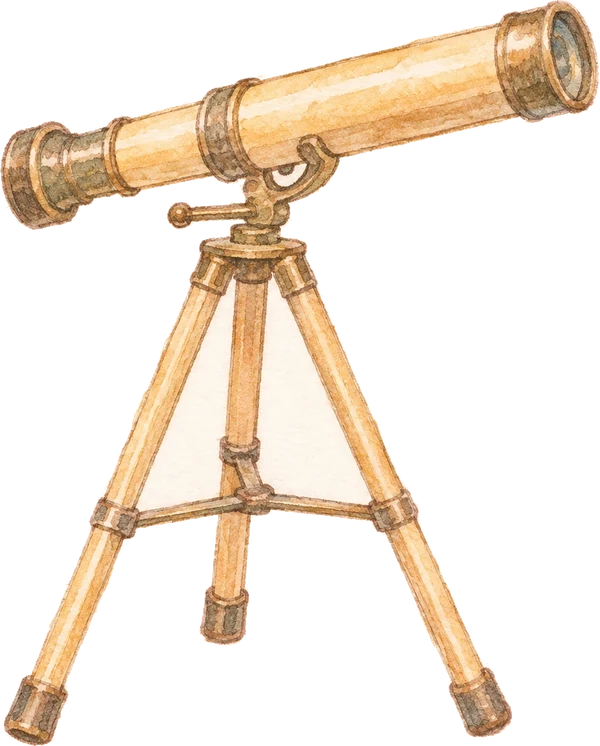
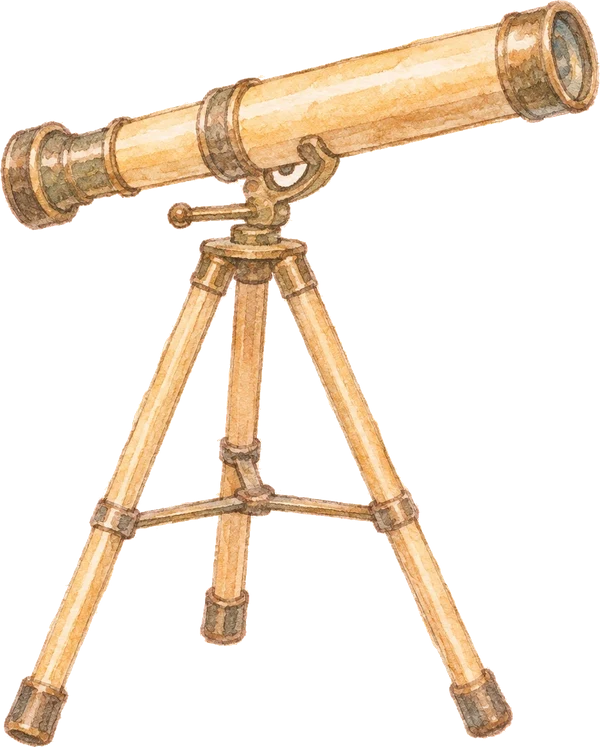
바닥 WebGL(타일 반복 제거·사파리 속도), 텐트 밑 그림자, 텐트·차·망원경 수정

diff --git a/index.html b/index.html
@@ -11,7 +11,7 @@
   .stage { position: sticky; top: 0; height: 100vh; overflow: hidden; }
   .bg { display: none; } /* 하늘·언덕은 캔버스에서 지평선 위치에 맞춰 그림 */
   .bg svg { width: 100%; height: 100%; display: block; }
-  #ground { position: absolute; inset: 0; width: 100%; height: 100%; }
+  #ground, #gl { position: absolute; inset: 0; width: 100%; height: 100%; pointer-events: none; }
   .obj { position: absolute; left: 0; top: 0; transform-origin: 0 0; will-change: transform; }
   .obj svg { width: 100%; height: 100%; display: block; overflow: visible; }
   .obj > img { width: 100%; height: 100%; display: block; }
@@ -61,6 +61,7 @@
     </svg></div>
 
     <canvas id="ground"></canvas>
+    <canvas id="gl"></canvas>
     <div class="hint" id="hint">SCROLL ↓</div>
   </div>
 </div>
@@ -139,17 +140,18 @@ shrub(6, 1900, -4300, 640);
 // 천막 (그림 비율 864x1001), 원뿔 텐트 (672x1005)
 // 텐트 여러 종류 [그림, 가로, 세로] — 그림 비율대로
 const TENT = { tent: [570, 390], tent2: [570, 370], dome1: [600, 332], dome2: [600, 348], dome3: [600, 341], teepee: [375, 409] }; // 1.5배
-const tent = (n, x, z, f) => place(img(`img/${n}.webp`, f), x, z, ...TENT[n]);
+const TENT_SH = []; // 텐트 밑 그림자 (땅 x, 땅 앞뒤 f, 너비)
+const tent = (n, x, z, f) => { place(img(`img/${n}.webp`, f), x, z, ...TENT[n]); TENT_SH.push([x * KX, -z * KZ, TENT[n][0]]); };
 // 앞(가까움) → 뒤(무대 근처)로 나눠 배치, 무대 정면은 비워둠
 // 왼쪽 5개
-tent('teepee', -1700, -6200, 0); tent('tent', -2400, -6900, 0); tent('dome3', -1000, -8300, 0); tent('tent', -1900, -9400, 1); tent('tent2', -900, -10100, 1);
-// 오른쪽: 아이보리 3개(열린 tent, 닫힌 tent2) + 하늘색 2개(닫힌 dome1, 열린 dome2)
-tent('dome1', 1050, -6500, 1); tent('tent', 1950, -6300, 1); tent('tent2', 1500, -8000, 0); tent('dome2', 950, -9000, 1); tent('tent2', 1800, -9700, 1);
+tent('teepee', -1700, -6200, 0); tent('tent', -2400, -6900, 0); tent('tent2', -1000, -8300, 0); tent('tent', -1900, -9400, 1); tent('tent2', -900, -10100, 1);
+// 오른쪽: 아이보리 3개(열린 tent, 닫힌 tent2) + 하늘색 열린 돔 1개
+tent('tent', 1950, -6300, 1); tent('tent2', 1500, -8000, 0); tent('dome2', 950, -9000, 1); tent('tent2', 1800, -9700, 1);
 // 무대 뒤 2개
-tent('dome3', -750, -11800, 1); tent('teepee', 750, -11600, 0);
+tent('tent', -750, -11800, 1); tent('teepee', 750, -11600, 0);
 // 망원경
 place(img('img/telescope.webp'), -1500, -7300, 120, 149);
-place('<img src="img/truck.webp" alt="">', -900, -7000, 500, 214);
+place('<img src="img/truck.webp" alt="">', -900, -7000, 650, 278);
 place('<img src="img/stage.webp" alt="">', 0, -10600, 960, 971);
 
 // ===== 카메라 계산 (바닥 캔버스와 물건이 같은 식을 씀) =====
@@ -222,8 +224,8 @@ function drawGround() {
   // 잔디 그림을 바닥에 원근으로 깔기: 앞뒤 띠 × 좌우 조각마다 평면 변환으로 패턴을 붙임 (땅에 고정 → 걸으면 발밑으로 흘러옴)
   if (!MPAT && MOTTLE_IMG.complete && MOTTLE_IMG.naturalWidth) MPAT = ctx.createPattern(MOTTLE_IMG, 'repeat');
   if (!GPAT && GRASS_IMG.complete && GRASS_IMG.naturalWidth) GPAT = ctx.createPattern(GRASS_IMG, 'repeat'); // 직접 만든 이음새 없는 수채화 잔디 (tools/make_grass.py)
-  let n0 = FOCUS - C.P - C.walk + C.walk; // 눈 위치(걷는 사람 기준)
-  n0 = Math.max(n0, FOCUS - C.P);
+  if (GL.ok) return; // 바닥은 WebGL이 그림 (아래는 WebGL 안 될 때만 쓰는 예비 방식)
+  let n0 = FOCUS - C.P;
   while (n0 < FAR) {
     const st = 40 + Math.max(0, n0 - (FOCUS - C.P)) * .08, n1 = n0 + st;
     const fade = Math.min(1, Math.max(0, (n0 - 2500) / 3000)); // 멀수록 옅게
@@ -304,6 +306,75 @@ function drawGrass() {
   for (const [, im, x, y, w, h] of list) if (im.complete) ctx.drawImage(im, x, y, w, h);
 }
 
+// ===== WebGL 바닥: 화면 픽셀마다 땅 위치를 거꾸로 계산해 잔디를 원근 그대로 칠함 (타일 반복·사파리 속도 개선) =====
+const GL = (() => {
+  const c = document.getElementById('gl'), g = c.getContext('webgl', { alpha: true, premultipliedAlpha: true, antialias: false });
+  if (!g) { c.style.display = 'none'; return { ok: false }; }
+  const sh = (t, src) => { const o = g.createShader(t); g.shaderSource(o, src); g.compileShader(o); if (!g.getShaderParameter(o, g.COMPILE_STATUS)) console.error(g.getShaderInfoLog(o)); return o; };
+  const pr = g.createProgram();
+  g.attachShader(pr, sh(g.VERTEX_SHADER, 'attribute vec2 p;void main(){gl_Position=vec4(p,0.,1.);}'));
+  g.attachShader(pr, sh(g.FRAGMENT_SHADER, `
+precision highp float;
+uniform vec2 uRes; uniform float uDpr;
+uniform vec4 uCam;   // cx, 지평선 y, P*zoom, 눈높이
+uniform vec4 uRot;   // cos, sin, 옆이동, P
+uniform vec3 uWalk;  // 걸은 거리, FOCUS, FAR
+uniform sampler2D uGrass, uMottle;
+uniform vec4 uSh[16]; uniform int uShN;
+vec2 rot(vec2 v, float a){ float c=cos(a), s=sin(a); return vec2(c*v.x - s*v.y, s*v.x + c*v.y); }
+void main(){
+  vec2 s = vec2(gl_FragCoord.x, uRes.y * uDpr - gl_FragCoord.y) / uDpr;
+  float k = (s.y - uCam.y) / uCam.w; if (k <= 0.0) discard;
+  float d = uCam.z / k, X = (s.x - uCam.x) / k, Z = d - uRot.w;
+  float x = X * uRot.x + Z * uRot.y + uRot.z, n = -X * uRot.y + Z * uRot.x + uWalk.y;
+  if (n > uWalk.z) discard;
+  vec2 w = vec2(x, n + uWalk.x);                       // 땅 좌표
+  vec3 g1 = texture2D(uGrass, rot(w + vec2(900., 0.), .23) / vec2(1400., -933.)).rgb;
+  vec3 g2 = texture2D(uGrass, rot(w - vec2(517., -311.), -.71) / vec2(2150., -1433.)).rgb;
+  vec3 m  = texture2D(uMottle, rot(w, .27) / 6000.).rgb;
+  float mask = smoothstep(.38, .62, texture2D(uMottle, rot(w, 1.3) / 4300. + .37).g * 1.4 - .2);
+  vec3 col = mix(g1, g2, mask);                          // 두 잔디를 큰 얼룩 모양으로 섞어 반복을 숨김
+  col = mix(col, col * (m / vec3(.67, .74, .41)), .28);  // 넓은 수채 얼룩
+  float sd = 0.;                                          // 텐트 밑 그림자
+  for (int i = 0; i < 16; i++) { if (i >= uShN) break; vec2 q = (w - uSh[i].xy) / uSh[i].zw; sd += exp(-dot(q, q) * 2.6); }
+  col *= 1. - .42 * min(1., sd);
+  float fade = clamp((n - 2500.) / 3000., 0., 1.);
+  col = mix(col, vec3(200., 198., 124.) / 255., fade);
+  gl_FragColor = vec4(col, 1.);
+}`));
+  g.linkProgram(pr); g.useProgram(pr);
+  const b = g.createBuffer(); g.bindBuffer(g.ARRAY_BUFFER, b); g.bufferData(g.ARRAY_BUFFER, new Float32Array([-1, -1, 1, -1, -1, 1, 1, 1]), g.STATIC_DRAW);
+  const loc = g.getAttribLocation(pr, 'p'); g.enableVertexAttribArray(loc); g.vertexAttribPointer(loc, 2, g.FLOAT, false, 0, 0);
+  const U = n => g.getUniformLocation(pr, n);
+  const aniso = g.getExtension('EXT_texture_filter_anisotropic');
+  const tex = (im, unit, name, pw, ph) => {
+    const t = g.createTexture(); g.activeTexture(g.TEXTURE0 + unit); g.bindTexture(g.TEXTURE_2D, t);
+    const cv = document.createElement('canvas'); cv.width = pw; cv.height = ph; cv.getContext('2d').drawImage(im, 0, 0, pw, ph); // 2의 거듭제곱 크기로 (밉맵용)
+    g.texImage2D(g.TEXTURE_2D, 0, g.RGB, g.RGB, g.UNSIGNED_BYTE, cv); g.generateMipmap(g.TEXTURE_2D);
+    g.texParameteri(g.TEXTURE_2D, g.TEXTURE_MIN_FILTER, g.LINEAR_MIPMAP_LINEAR); g.texParameteri(g.TEXTURE_2D, g.TEXTURE_MAG_FILTER, g.LINEAR);
+    if (aniso) g.texParameterf(g.TEXTURE_2D, aniso.TEXTURE_MAX_ANISOTROPY_EXT, Math.min(8, g.getParameter(aniso.MAX_TEXTURE_MAX_ANISOTROPY_EXT)));
+    g.uniform1i(U(name), unit);
+  };
+  const st = { ok: true, g, c, U, ready: 0 };
+  const load = (im, unit, name, pw, ph) => { const f = () => { tex(im, unit, name, pw, ph); st.ready++; }; im.complete && im.naturalWidth ? f() : im.addEventListener('load', f); };
+  load(GRASS_IMG, 0, 'uGrass', 2048, 1024); load(MOTTLE_IMG, 1, 'uMottle', 512, 512);
+  return st;
+})();
+function drawGL() {
+  if (!GL.ok) return;
+  const { g, c, U } = GL, r = Math.min(devicePixelRatio || 1, 2);
+  if (c.width !== Math.round(W * r) || c.height !== Math.round(H * r)) { c.width = Math.round(W * r); c.height = Math.round(H * r); g.viewport(0, 0, c.width, c.height); }
+  g.clearColor(0, 0, 0, 0); g.clear(g.COLOR_BUFFER_BIT);
+  if (GL.ready < 2) return;
+  g.uniform2f(U('uRes'), W, H); g.uniform1f(U('uDpr'), c.width / W);
+  g.uniform4f(U('uCam'), C.cx, C.hy, C.P * C.zoom, C.eye);
+  g.uniform4f(U('uRot'), C.cos, C.sin, C.strafe, C.P);
+  g.uniform3f(U('uWalk'), C.walk, FOCUS, FAR);
+  const sh = new Float32Array(64); TENT_SH.slice(0, 16).forEach(([x, f, w], i) => sh.set([x, f + w * .03, w * .52, w * .2], i * 4)); // 텐트 바로 밑, 살짝 뒤로
+  g.uniform4fv(U('uSh[0]'), sh); g.uniform1i(U('uShN'), Math.min(16, TENT_SH.length));
+  g.drawArrays(g.TRIANGLE_STRIP, 0, 4);
+}
+
 function render() {
   cp += (p - cp) * .07; cmx += (mx - cmx) * .07; cmy += (my - cmy) * .07;
   // 스크롤 앞부분: 땅에 붙어 있던 눈이 올라가며 바닥면이 드러남(평면 → 입체), 뒷부분: 앞으로 걸어감
@@ -319,6 +390,7 @@ function render() {
   const bob = Math.sin(walk / 70) * 3 * Math.min(1, cp * 20) * (1 - cp);
   C = { P, walk, strafe: cmx * 2 * STRAFE * hov, cos: Math.cos(a), sin: Math.sin(a), zoom: H > W ? W / 560 : Math.min(H / 900, W / 1440), cx: W / 2, hy: H * (H > W ? .74 - .2 * rise : .88 - .46 * rise) + bob, eye, yaw: a, rise };
   drawGround();
+  drawGL();
   drawGrass();
   for (const it of items) {
     const [X, d] = cam3(it.x, -it.z - walk);
